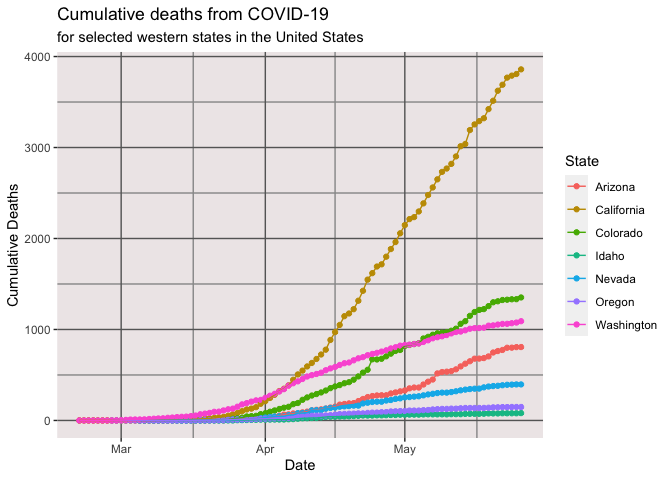
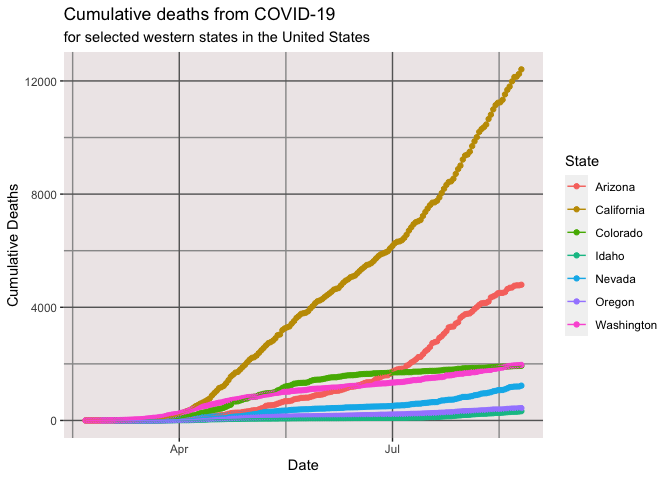
Used data from 2020-08-25.

Changed region(s): [[0.0312, 0.0, 0.8125, 1.0]]

diff --git a/vignettes/covid19_deaths_by_state.md b/vignettes/covid19_deaths_by_state.md
@@ -1,24 +1,25 @@
 COVID-19 Deaths by State
 ================
 [Jim Tyhurst, Ph.D.](https://www.jimtyhurst.com/)
-2020-05-27
+2020-08-26
 
-  - [Read data](#read-data)
-  - [Cases by state](#cases-by-state)
-      - [Cumulative number of cases](#cumulative-number-of-cases)
-      - [Cumulative cases per comparable unit of
+-   [Read data](#read-data)
+-   [Cases by state](#cases-by-state)
+    -   [Cumulative number of cases](#cumulative-number-of-cases)
+    -   [Cumulative cases per comparable unit of
         population](#cumulative-cases-per-comparable-unit-of-population)
-  - [Deaths by state](#deaths-by-state)
-      - [Cumulative deaths by state](#cumulative-deaths-by-state)
-      - [Cumulative deaths per comparable unit of
+-   [Deaths by state](#deaths-by-state)
+    -   [Cumulative deaths by state](#cumulative-deaths-by-state)
+    -   [Cumulative deaths per comparable unit of
         population](#cumulative-deaths-per-comparable-unit-of-population)
-      - [Daily number of deaths](#daily-number-of-deaths)
-  - [Mortality by state](#mortality-by-state)
-  - [Distribution of mortality rates](#distribution-of-mortality-rates)
+    -   [Daily number of deaths](#daily-number-of-deaths)
+-   [Mortality by state](#mortality-by-state)
+-   [Distribution of mortality rates](#distribution-of-mortality-rates)
 
 [Source code](./covid19_deaths_by_state.Rmd).
 
-## Read data
+Read data
+---------
 
 Reads a NY Times
 [dataset](https://www.nytimes.com/interactive/2020/us/coronavirus-us-cases.html)
@@ -26,7 +27,8 @@ of COVID-19 [cases and
 deaths](https://github.com/nytimes/covid-19-data/blob/master/us-states.csv)
 by state.
 
-## Cases by state
+Cases by state
+--------------
 
 ### Cumulative number of cases
 
@@ -39,7 +41,8 @@ few select states.
 
 ![](covid19_deaths_by_state_files/figure-gfm/cases_by_state_per_unit-1.png)<!-- -->
 
-## Deaths by state
+Deaths by state
+---------------
 
 ### Cumulative deaths by state
 
@@ -59,14 +62,16 @@ few select states.
 
 ![](covid19_deaths_by_state_files/figure-gfm/daily_deaths_by_state-1.png)<!-- -->
 
-## Mortality by state
+Mortality by state
+------------------
 
 Plot of percentage of deaths per state, calculated as (deaths / cases)
 \* 100.
 
 ![](covid19_deaths_by_state_files/figure-gfm/mortality_by_state-1.png)<!-- -->
 
-## Distribution of mortality rates
+Distribution of mortality rates
+-------------------------------
 
 Plot of mortality rates across states, i.e. percentage of deaths for
 confirmed cases, in the United States.

diff --git a/vignettes/covid19_deaths.md b/vignettes/covid19_deaths.md
@@ -1,17 +1,14 @@
 COVID-19 Deaths
 ================
 [Jim Tyhurst, Ph.D.](https://www.jimtyhurst.com/)
-2020-05-27
-
-  - [tl;dr](#tldr)
+2020-08-26
 
 [Source code](./covid19_deaths.Rmd).
 
-## tl;dr
+tl;dr
+-----
 
-Plots cumulative number of confirmed cases for a few selected countries.
-It is easy to tell by the shape of the curve whether the daily number of
-cases are increasing vs countries where the rate of deaths has
-decreased.
+Plots cumulative number of confirmed deaths for a few selected
+countries.
 
 ![](covid19_deaths_files/figure-gfm/total_by_country_summary-1.png)<!-- -->
